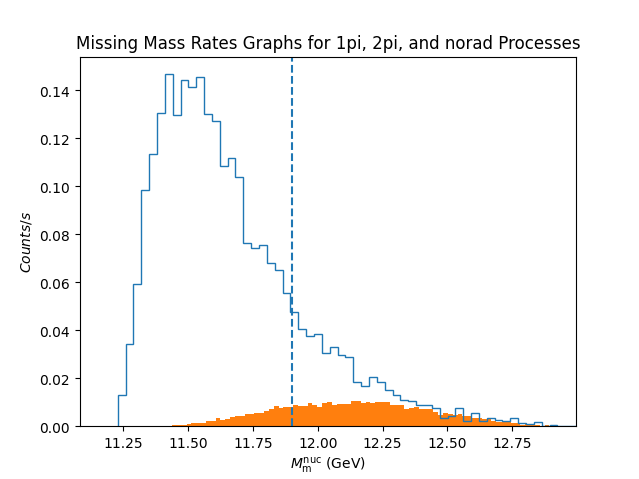
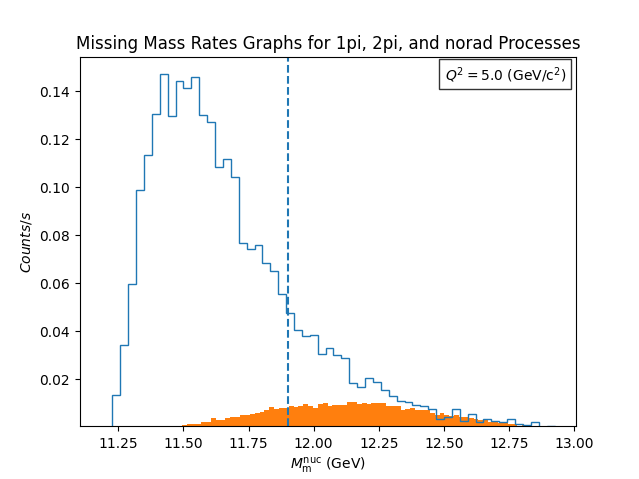
Fixes

diff --git a/CTMain.py b/CTMain.py
@@ -20,7 +20,7 @@ inputKT = [5.0,       # Q2
 inputK = [np.array([11.0]),              # E_beam       
           np.arange(4.0, 5.0, 0.01),     # Q2
           12,                            # A
-          6                              # 6
+          6                              # Z
           ]
 
 # Labelling Ebeam, checking if range or fixed.
@@ -43,7 +43,7 @@ resultsSIM = {"1pi": cts.main("pionCT-sim/pion_q5_og.root"),
               "norad": cts.main("pionCT-sim/pion_q5_norad.root")}
 
 # resultsKT           = ctkt.main(inputKT)
-# resultsK, masksK    = ctk.main(inputK)
+resultsK, masksK    = ctk.main(inputK)
 
 # KIN PLOTTING
 
@@ -63,12 +63,11 @@ plotPS = [("xb", "Q2", "theta_e", "detection"),
             ("Mm", "Q2", "xb", "detection")]
 
 # (xkey, binsize, mask)
-plotH = [("Mm", 100, "detection")]
+plotH = [("Mm", 100, "physical")]
 
 # (xkey, ykey, binsize, mask)
-plot2H = [("Q2", "W", 100, "detection"),
-          ("Mm", "Pm", 100, "detection"),
-          ("Mm", "Q2", 100, "detection")]
+plot2H = [("Mm", "Pm", 100, "physical"),
+          ("Mm", "Q2", 100, "physical")]
 
 # for xkey, ykey, zkey, mask in plotPS:
 
@@ -81,8 +80,8 @@ plot2H = [("Q2", "W", 100, "detection"),
 # for key, binsize, mask in plotH:
 
 #     plt.figure()
-#     cth.hist(resultsK[key], bins=binsize, 
-#              weights=None, mask=masksK[mask])
+#     cth.hist(x=resultsK[key], bins=binsize, 
+#              weights=None, mask=masksK[mask], type='bar')
 #     cth.format(cth.labels[key], ylabel='Counts', colorbar=None, title=
 #             fr'Counts Graphs for $E_b=$ {Ebeam_name} GeV')
 
@@ -91,7 +90,7 @@ plot2H = [("Q2", "W", 100, "detection"),
 #     plt.figure()
 #     cth.hist2D(resultsK[xkey], resultsK[ykey], binsize, 
 #                weights=None, mask=masksK[mask])
-#     cth.format(cth.labels[xkey], cth.labels[ykey], colorbar=None, title=
+#     cth.format(cth.labels[xkey], cth.labels[ykey], colorbar=fr'Counts/s', title=
 #                 fr'Counts Graphs for $E_b=$ {Ebeam_name} GeV')
     
 # SIM PLOTTING
@@ -190,5 +189,6 @@ contamination_results = np.array(contamination_results)
 
 contamination_mask = (contamination_results >= 0.040) & (contamination_results <= 0.060)
 plt.axvline(cut_results[contamination_mask], linestyle='--')
+cth.Label(r'$Q^2 = 5.0$ $\mathrm{(GeV/c^2)}$')
 
 plt.show()

diff --git a/CTHelp.py b/CTHelp.py
@@ -47,28 +47,38 @@ def format(xlabel, ylabel, colorbar, title):
 
     plt.xlabel(xlabel); plt.ylabel(ylabel); plt.title(title)
 
-    if colorbar != None:
+    if colorbar is not None:
         plt.colorbar(label=colorbar)
 
 def hist(x, bins, weights, mask, type):
-
-    if mask != None:
-
-        x = x[mask]; weights = weights[mask]
+    
+    if mask is not None:
+        
+        x = x[mask]; 
+        
+        if weights is not None:
+            
+            weights = weights[mask]
 
     plt.hist(x, bins=bins, weights=weights, histtype=type)
 
 def hist2D(x, y, bins, weights, mask):
 
-    if mask != None:
+    if mask is not None:
         
-        x = x[mask]; y = y[mask]; weights=weights[mask]
+        x = x[mask]; y = y[mask]; 
+        
+        if weights is not None:
+            
+            weights=weights[mask]
 
-    plt.hist2d(x, y, bins=bins, weights=weights, norm=LogNorm())
+    plt.hist2d(x, y, bins=bins, weights=weights 
+               , norm=LogNorm()
+               )
 
 def scatter(x, y, z, mask, fig):
 
-    if mask != None:
+    if mask is not None:
 
         x = x[mask]; y = y[mask]; z = z[mask]
 
@@ -77,7 +87,7 @@ def scatter(x, y, z, mask, fig):
     
 def contour(x, y, z, mask):
     
-    if mask != None:
+    if mask is not None:
 
         x = x[mask]; y = y[mask]; z = z[mask]
     
